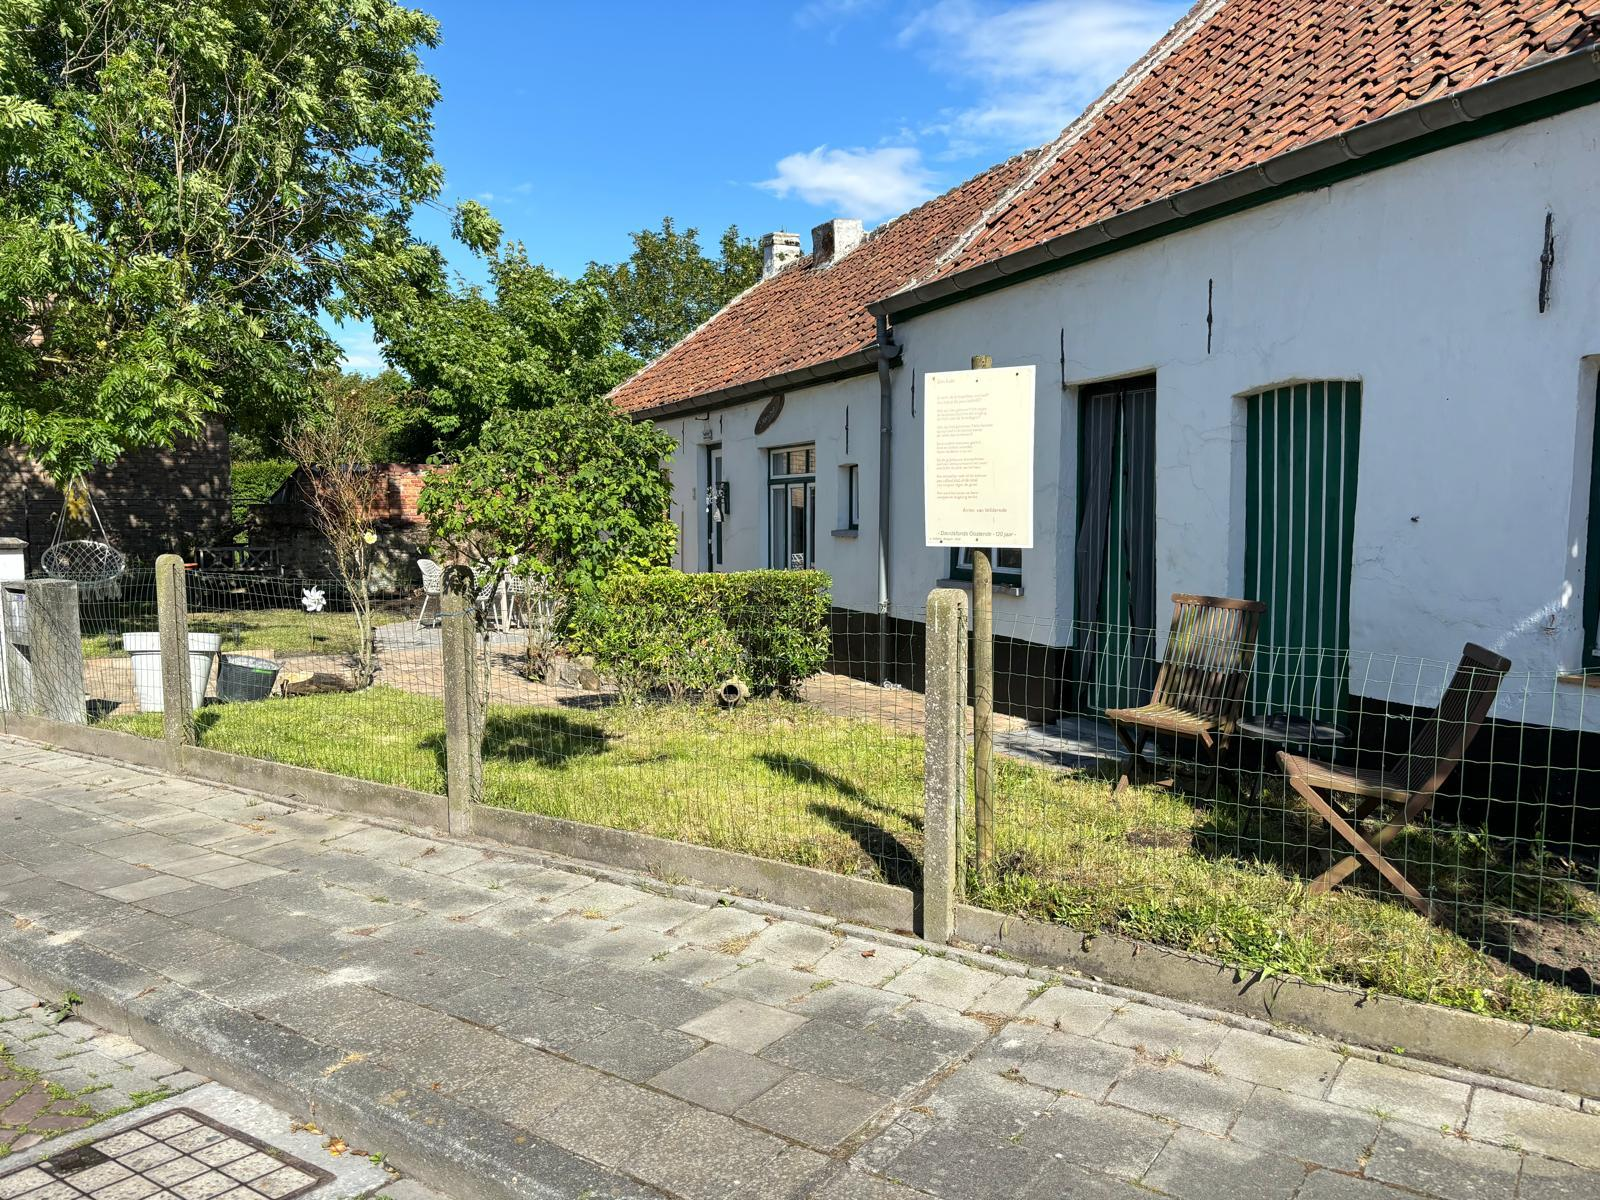
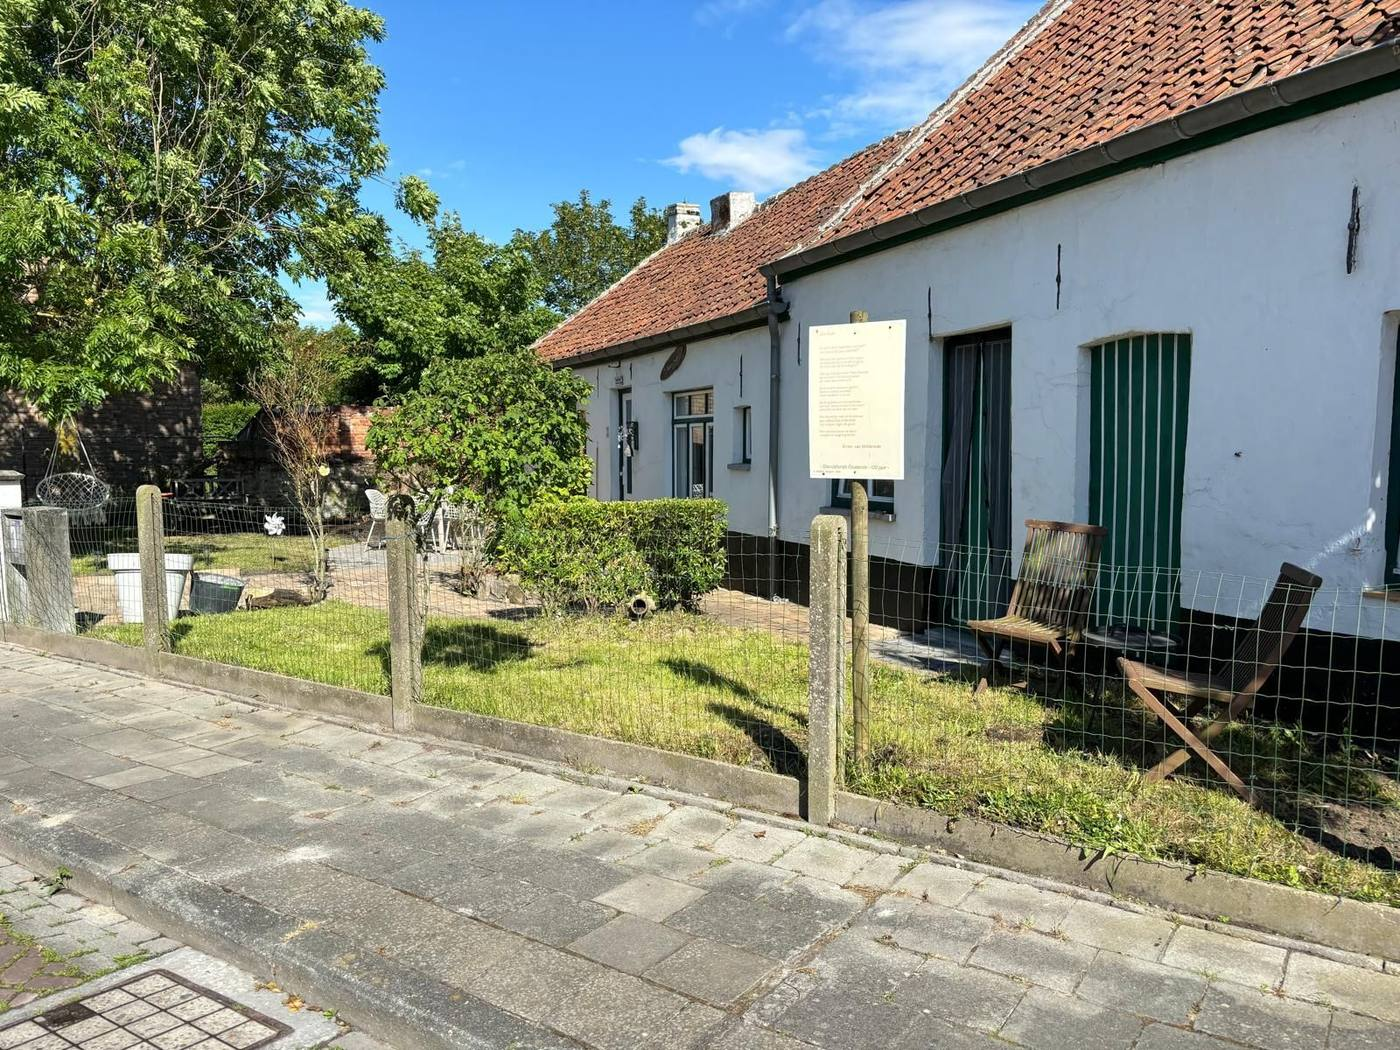
Add files via upload

diff --git a/index.html b/index.html
@@ -1662,7 +1662,7 @@ footer {
 <footer>
   <div class="footer-grid">
     <div>
-      <div class="footer-brand">Vakantiewoningen<br>in Oostende</div>
+      <div class="footer-brand" data-i18n="footer.brand">Vakantiewoningen<br>in Oostende</div>
       <p class="footer-tagline" data-i18n="footer.tagline">Twee unieke verblijven aan de Belgische kust — Het Relax Hoeveke in het landelijke Stene en La Brise et La Mer op de Zeedijk van Mariakerke.</p>
 
     </div>